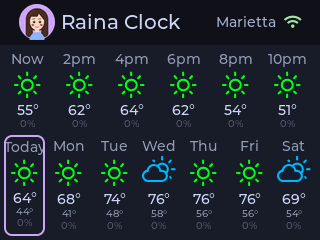
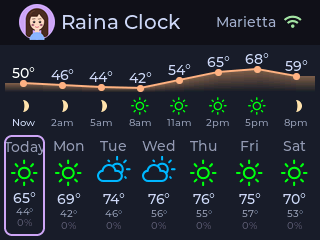
Weather page: hourly temperature graph like Google weather (line, fill, degrees, sky and hour); daily cards unchanged

diff --git a/src/ui_weather.cpp b/src/ui_weather.cpp
@@ -7,15 +7,24 @@
 
 extern SettingsManager settings;
 
+LV_FONT_DECLARE(weather_icons_16);
 LV_FONT_DECLARE(weather_icons_24);
 LV_FONT_DECLARE(weather_icons_48);
 LV_FONT_DECLARE(weather_icons_72);
 
-static const int HOUR_CARDS = 6;          // every second hour: the next 12 hours
+static const int POINTS = 8, STEP = 3;   // the hourly graph: a point every third hour, the next 24 hours
 static const uint32_t CARD = 0x1e1e2e, TEXT = 0xcdd6f4, DIM = 0x9399b2, RAIN = 0x89b4fa, ACCENT = 0xcba6f7;
 
 struct Card { lv_obj_t* box; lv_obj_t* top; lv_obj_t* icon; lv_obj_t* temp; lv_obj_t* low; lv_obj_t* rain; };
-static Card hour_cards[HOUR_CARDS];
+
+// The hourly graph, drawn in one go like Google's: the temperature as a line with a soft fill under it, the degrees
+// above each point, the sky and the hour below
+struct Point { float temp; int code; bool day; char time[8]; };
+static Point pts[POINTS];
+static int npts = 0;
+static lv_obj_t* graph = nullptr;
+static bool graph_large = false;
+static const uint32_t LINE = 0xfab387;
 static Card day_cards[FORECAST_DAYS];
 static bool have_page = false;
 
@@ -55,6 +64,80 @@ static Card makeCard(lv_obj_t* parent, int x, int y, int w, int h, bool withLow,
     return c;
 }
 
+static void text(lv_draw_ctx_t* ctx, const lv_font_t* f, uint32_t color, int cx, int y, const char* t) {
+    lv_draw_label_dsc_t d;
+    lv_draw_label_dsc_init(&d);
+    d.font = f;
+    d.color = lv_color_hex(color);
+    d.align = LV_TEXT_ALIGN_CENTER;
+    lv_area_t a = {(lv_coord_t)(cx - 30), (lv_coord_t)y, (lv_coord_t)(cx + 30), (lv_coord_t)(y + lv_font_get_line_height(f))};
+    lv_draw_label(ctx, &d, &a, t, nullptr);
+}
+
+static void graph_draw_cb(lv_event_t* e) {
+    if (npts < 2) return;
+    lv_obj_t* obj = lv_event_get_target(e);
+    lv_draw_ctx_t* ctx = lv_event_get_draw_ctx(e);
+    lv_area_t a;
+    lv_obj_get_coords(obj, &a);
+    const lv_font_t* ft = graph_large ? &lv_font_montserrat_20 : &lv_font_montserrat_14;
+    const lv_font_t* fh = graph_large ? &lv_font_montserrat_14 : &lv_font_montserrat_10;
+    const lv_font_t* fi = graph_large ? &weather_icons_24 : &weather_icons_16;
+    int w = lv_area_get_width(&a), h = lv_area_get_height(&a);
+    int tH = lv_font_get_line_height(ft), hH = lv_font_get_line_height(fh), iH = lv_font_get_line_height(fi);
+    // bands from the top: degrees, the line, the fill down to the icons, the icons, the hours
+    int lineTop = a.y1 + tH + 4, timeY = a.y2 - hH - 2, iconY = timeY - iH, fillBot = iconY - 2;
+    int lineBot = fillBot - (fillBot - lineTop) / 5;           // most of the height goes to the line, a strip of fill stays under its lowest point
+    float lo = pts[0].temp, hi = pts[0].temp;
+    for (int i = 1; i < npts; i++) { if (pts[i].temp < lo) lo = pts[i].temp; if (pts[i].temp > hi) hi = pts[i].temp; }
+    float span = hi - lo < 4 ? 4 : hi - lo;
+    lv_point_t p[POINTS];
+    float colW = (float)w / npts;
+    for (int i = 0; i < npts; i++) {
+        p[i].x = a.x1 + (lv_coord_t)(colW * (i + 0.5f));
+        p[i].y = lineBot - (lv_coord_t)((pts[i].temp - lo) / span * (lineBot - lineTop));
+    }
+    // the fill: one-pixel columns fading into the card, flat past the first and the last point
+    lv_draw_rect_dsc_t r;
+    lv_draw_rect_dsc_init(&r);
+    r.bg_color = lv_color_mix(lv_color_hex(LINE), lv_color_hex(CARD), 110);
+    r.bg_grad.dir = LV_GRAD_DIR_VER;
+    r.bg_grad.stops_count = 2;
+    r.bg_grad.stops[0].color = r.bg_color; r.bg_grad.stops[0].frac = 0;
+    r.bg_grad.stops[1].color = lv_color_hex(CARD); r.bg_grad.stops[1].frac = 255;
+    int seg = 0;
+    for (int x = a.x1 + 1; x < a.x2; x++) {
+        while (seg < npts - 2 && x > p[seg + 1].x) seg++;
+        int y;
+        if (x <= p[0].x) y = p[0].y;
+        else if (x >= p[npts - 1].x) y = p[npts - 1].y;
+        else y = p[seg].y + (p[seg + 1].y - p[seg].y) * (x - p[seg].x) / (p[seg + 1].x - p[seg].x);
+        lv_area_t col = {(lv_coord_t)x, (lv_coord_t)y, (lv_coord_t)x, (lv_coord_t)fillBot};
+        lv_draw_rect(ctx, &r, &col);
+    }
+    // the line and its dots
+    lv_draw_line_dsc_t l;
+    lv_draw_line_dsc_init(&l);
+    l.color = lv_color_hex(LINE);
+    l.width = graph_large ? 3 : 2;
+    l.round_start = l.round_end = 1;
+    for (int i = 0; i + 1 < npts; i++) lv_draw_line(ctx, &l, &p[i], &p[i + 1]);
+    lv_draw_rect_dsc_t dot;
+    lv_draw_rect_dsc_init(&dot);
+    dot.bg_color = lv_color_hex(LINE);
+    dot.radius = LV_RADIUS_CIRCLE;
+    int dr = graph_large ? 4 : 3;
+    char b[12];
+    for (int i = 0; i < npts; i++) {
+        lv_area_t d = {(lv_coord_t)(p[i].x - dr), (lv_coord_t)(p[i].y - dr), (lv_coord_t)(p[i].x + dr), (lv_coord_t)(p[i].y + dr)};
+        lv_draw_rect(ctx, &dot, &d);
+        snprintf(b, sizeof(b), "%.0f\xC2\xB0", pts[i].temp);
+        text(ctx, ft, i == 0 ? 0xffffff : TEXT, p[i].x, p[i].y - tH - 2, b);
+        text(ctx, fi, getIconColor(pts[i].code, pts[i].day), p[i].x, iconY, getIconGlyph(pts[i].code, pts[i].day));
+        text(ctx, fh, i == 0 ? TEXT : DIM, p[i].x, timeY, pts[i].time);
+    }
+}
+
 void createWeatherPage(lv_obj_t* tab, bool isLargeScreen) {
     // the page this replaces stays alive (its labels are still updated) but out of sight
     for (uint32_t i = 0; i < lv_obj_get_child_cnt(tab); i++) lv_obj_add_flag(lv_obj_get_child(tab, i), LV_OBJ_FLAG_HIDDEN);
@@ -69,8 +152,16 @@ void createWeatherPage(lv_obj_t* tab, bool isLargeScreen) {
     int g = isLargeScreen ? 6 : 4;
     int hourH = (H - 3 * g) * 45 / 100, dayH = H - 3 * g - hourH;
 
-    int hw = (W - (HOUR_CARDS + 1) * g) / HOUR_CARDS;
-    for (int i = 0; i < HOUR_CARDS; i++) hour_cards[i] = makeCard(tab, g + i * (hw + g), g, hw, hourH, false, isLargeScreen);
+    graph_large = isLargeScreen;
+    graph = lv_obj_create(tab);
+    lv_obj_set_pos(graph, g, g);
+    lv_obj_set_size(graph, W - 2 * g, hourH);
+    lv_obj_set_style_bg_color(graph, lv_color_hex(CARD), LV_PART_MAIN);
+    lv_obj_set_style_border_width(graph, 0, LV_PART_MAIN);
+    lv_obj_set_style_radius(graph, 8, LV_PART_MAIN);
+    lv_obj_set_style_pad_all(graph, 0, LV_PART_MAIN);
+    lv_obj_clear_flag(graph, LV_OBJ_FLAG_SCROLLABLE | LV_OBJ_FLAG_CLICKABLE);   // a tap falls through to the page menu
+    lv_obj_add_event_cb(graph, graph_draw_cb, LV_EVENT_DRAW_MAIN_END, nullptr);
     int dw = (W - (FORECAST_DAYS + 1) * g) / FORECAST_DAYS;
     for (int i = 0; i < FORECAST_DAYS; i++) day_cards[i] = makeCard(tab, g + i * (dw + g), 2 * g + hourH, dw, dayH, true, isLargeScreen);
     have_page = true;
@@ -119,15 +210,18 @@ void weatherPanelsUpdate(const WeatherData& data) {
     weatherAlertUpdate(data);
     if (!have_page) return;
 
-    for (int i = 0; i < HOUR_CARDS; i++) {
-        const HourlyForecast& h = data.hourly[i * 2];
-        char t[12];
-        if (h.hour < 0) snprintf(t, sizeof(t), "+%dh", i * 2);
-        else if (use24) snprintf(t, sizeof(t), "%02d:00", h.hour);
-        else snprintf(t, sizeof(t), "%d%s", h.hour % 12 == 0 ? 12 : h.hour % 12, h.hour < 12 ? "am" : "pm");
-        if (i == 0) snprintf(t, sizeof(t), "Now");
-        fillCard(hour_cards[i], t, h.weatherCode, h.temperature, nullptr, h.precipitationProbability, h.isDay);
+    npts = 0;
+    for (int i = 0; i < POINTS; i++) {
+        const HourlyForecast& h = data.hourly[i * STEP];
+        if (h.weatherCode < 0) break;
+        Point& q = pts[npts++];
+        q.temp = h.temperature; q.code = h.weatherCode; q.day = h.isDay;
+        if (i == 0) snprintf(q.time, sizeof(q.time), "Now");
+        else if (h.hour < 0) snprintf(q.time, sizeof(q.time), "+%dh", i * STEP);
+        else if (use24) snprintf(q.time, sizeof(q.time), "%02d:00", h.hour);
+        else snprintf(q.time, sizeof(q.time), "%d%s", h.hour % 12 == 0 ? 12 : h.hour % 12, h.hour < 12 ? "am" : "pm");
     }
+    if (graph) lv_obj_invalidate(graph);
 
     static const char* wd[7] = {"Sun", "Mon", "Tue", "Wed", "Thu", "Fri", "Sat"};
     struct tm now;

diff --git a/README.md b/README.md
@@ -88,7 +88,9 @@ A short message bubble on the Clock page, like a chat message, chosen from the h
 
 ### Weather page
 
-The next hours, with temperature and chance of rain, and the next 7 days with highs and lows.
+- **Hourly:** a Google-style graph of the next 24 hours, one point every 3 hours, with the temperature above each point and the sky and the hour below.
+- **Night icons:** clear nights show a crescent moon.
+- **Daily:** the next 7 days, with highs, lows and the chance of rain.
 
 ### To-do
 
@@ -124,7 +126,7 @@ The next hours, with temperature and chance of rain, and the next 7 days with hi
 |---|---|---|
 | <img src="docs/images/clock.png" width="240"><br>Clock with the weather and a calm message | <img src="docs/images/clock-rain.png" width="240"><br>Rain coming | <img src="docs/images/clock-storm.png" width="240"><br>Storm coming (blinking icon) |
 | <img src="docs/images/set-time.png" width="240"><br>Set the alarm time | <img src="docs/images/set-countdown.png" width="240"><br>Count down (down arrow lit) | <img src="docs/images/name-keyboard.png" width="240"><br>Name keyboard |
-| <img src="docs/images/ringing.png" width="240"><br>Ringing, with the name in bold | <img src="docs/images/menu.png" width="240"><br>Page menu (tap empty space) | <img src="docs/images/weather.png" width="240"><br>Weather: hours and 7 days |
+| <img src="docs/images/ringing.png" width="240"><br>Ringing, with the name in bold | <img src="docs/images/menu.png" width="240"><br>Page menu (tap empty space) | <img src="docs/images/weather.png" width="240"><br>Weather: hourly graph and 7 days |
 | <img src="docs/images/todo.png" width="240"><br>To-do with the QR code | <img src="docs/images/qr.png" width="240"><br>Open the phone page | <img src="docs/images/clock-freezing.png" width="240"><br>Freezing night |
 | <img src="docs/images/setup-weather.png" width="240"><br>Setup: Weather | <img src="docs/images/setup-audio.png" width="240"><br>Setup: Audio | <img src="docs/images/setup-look.png" width="240"><br>Setup: Look |
 
